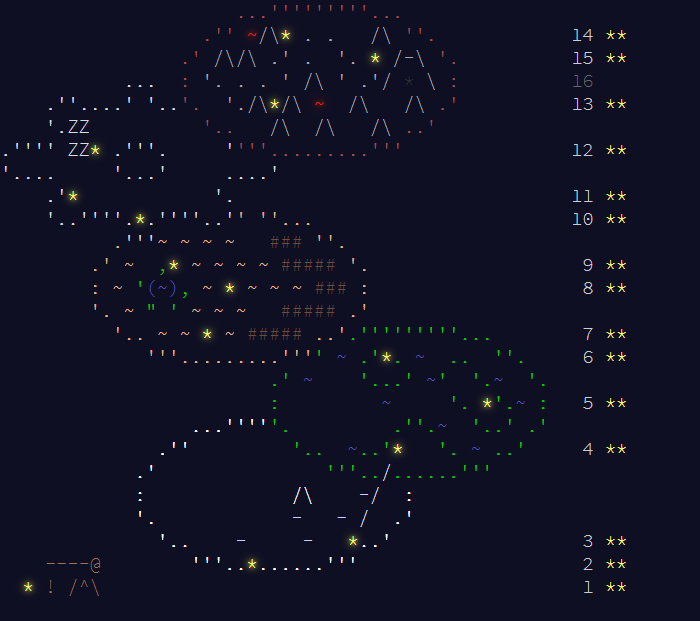
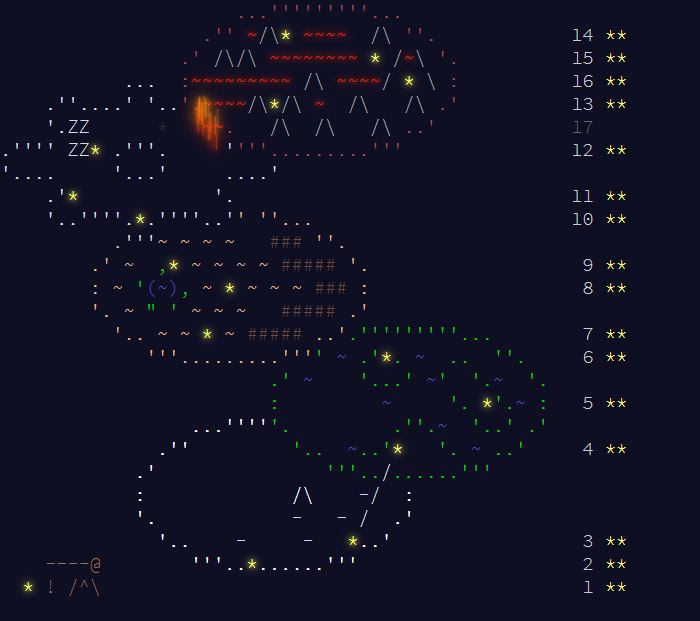
Day 16

diff --git a/2023/main_page/aoc/index_16.html b/2023/main_page/aoc/index_16.html
@@ -1,0 +1,118 @@
+<!DOCTYPE html>
+<html lang="en-us">
+<head>
+<meta charset="utf-8"/>
+<title>Advent of Code 2023</title>
+<!--[if lt IE 9]><script src="html5.js"></script><![endif]-->
+<link href='SourceCodePro.css' rel='stylesheet' type='text/css'>
+<link rel="stylesheet" type="text/css" href="style.css"/>
+<link rel="stylesheet alternate" type="text/css" href="highcontrast.css?0" title="High Contrast"/>
+<link rel="shortcut icon" href="favicon.png"/>
+</head><body>
+<main>
+<style>
+.calendar .calendar-color-n { color:#9b715b; }
+.calendar .calendar-color-v { color:#df2308; text-shadow:0 0 5px #df2308, 0 0 10px #df2308; }
+.calendar .calendar-color-a { color:#a5a8af; }
+.calendar .calendar-color-w { color:#ffffff; }
+.calendar .calendar-color-k { color:#6b4d3b; }
+.calendar .calendar-color-m { color:#d4dde4; }
+.calendar .calendar-color-b { color:#5555bb; }
+.calendar .calendar-color-l { color:#ccccff; }
+.calendar .calendar-color-i { color:#a25151; }
+.calendar .calendar-color-s { color:#e3b585; }
+.calendar .calendar-color-y { color:#ffff66; text-shadow:0 0 5px #ffff66, 0 0 10px #ffff66; }
+.calendar .lavafall {
+  position: relative;
+}
+.calendar .lavafall > span {
+  position: absolute;
+  animation: anim-calendar-lavafall 3s linear infinite;
+  display: inline-block;
+  pointer-events: none;
+}
+@keyframes anim-calendar-lavafall {
+    0% { transform: translateY(0);   opacity:0.0; color:#faa718; text-shadow: 0 0 3px #faa718, 0 0 5px #faa718, 0 0 10px #faa718, 0 0 15px #faa718, 0 0 20px #faa718; }
+   20% {                             opacity:0.8; }
+   80% {                             opacity:0.8; }
+  100% { transform: translateY(3ch); opacity:0.0; color:#df2308; text-shadow: 0 0 3px #df2308, 0 0 5px #df2308, 0 0 10px #df2308, 0 0 15px #df2308, 0 0 20px #df2308; }
+}
+
+.calendar .calendar-color-g { color:#00cc00; }
+</style>
+<pre class="calendar"><a aria-label="Day 14, two stars" href="day_14.html" class="calendar-day14 calendar-verycomplete">                     <span class="calendar-color-i">...'''''''''...</span>                    
+                  <span class="calendar-color-i">.''</span> <span class="calendar-color-v">~</span><span class="calendar-color-a">/\</span><span class="calendar-color-y">*</span> <span class="calendar-color-v">~~~~</span>  <span class="calendar-color-a">/\</span> <span class="calendar-color-i">''.</span>            <span class="calendar-day">14</span> <span class="calendar-mark-complete">*</span><span class="calendar-mark-verycomplete">*</span></a>
+<a aria-label="Day 15, two stars" href="day_15.html" class="calendar-day15 calendar-verycomplete">                <span class="calendar-color-i">.'</span> <span class="calendar-color-a">/\/\</span> <span class="calendar-color-v">~~~~~~~~</span> <span class="calendar-color-y">*</span> <span class="calendar-color-a">/</span><span class="calendar-color-v">~</span><span class="calendar-color-a">\</span> <span class="calendar-color-i">'.</span>          <span class="calendar-day">15</span> <span class="calendar-mark-complete">*</span><span class="calendar-mark-verycomplete">*</span></a>
+<a aria-label="Day 16, two stars" href="day_16.html" class="calendar-day16 calendar-verycomplete">           <span class="calendar-color-m">...</span>  <span class="calendar-color-i">:</span><span class="calendar-color-v">~~~~~~~~~</span> <span class="calendar-color-a">/\</span> <span class="calendar-color-v">~~~~</span><span class="calendar-color-a">/</span> <span class="calendar-color-y">*</span> <span class="calendar-color-a">\</span> <span class="calendar-color-i">:</span>          <span class="calendar-day">16</span> <span class="calendar-mark-complete">*</span><span class="calendar-mark-verycomplete">*</span></a>
+<a aria-label="Day 13, two stars" href="day_13.html" class="calendar-day13 calendar-verycomplete">    <span class="calendar-color-m">.''....'</span> <span class="calendar-color-m">'..</span><span class="calendar-color-i">'.<span class="lavafall" style=""><span style="left:-5.0px;top:-5.0px;animation-delay:-1.11s">|</span><span style="left:10.2px;top:10.2px;animation-delay:-0.10s">|</span><span style="left:7.8px;top:7.8px;animation-delay:-0.97s">|</span><span style="left:-8.6px;top:-8.6px;animation-delay:-1.12s">|</span><span style="left:-4.1px;top:-4.1px;animation-delay:-1.95s">|</span><span style="left:-3.7px;top:-3.7px;animation-delay:-0.13s">|</span><span style="left:5.8px;top:5.8px;animation-delay:-2.53s">|</span><span style="left:2.0px;top:2.0px;animation-delay:-2.61s">|</span><span style="left:3.2px;top:3.2px;animation-delay:-1.06s">|</span><span style="left:1.3px;top:1.3px;animation-delay:-0.11s">|</span><span style="left:9.2px;top:9.2px;animation-delay:-2.13s">|</span><span style="left:-1.5px;top:-1.5px;animation-delay:-0.24s">|</span><span style="left:-1.4px;top:-1.4px;animation-delay:-0.06s">|</span><span style="left:-8.2px;top:-8.2px;animation-delay:-0.75s">|</span><span style="left:1.1px;top:1.1px;animation-delay:-1.97s">|</span><span style="left:-7.6px;top:-7.6px;animation-delay:-0.62s">|</span><span style="left:-5.8px;top:-5.8px;animation-delay:-0.85s">|</span><span style="left:-9.1px;top:-9.1px;animation-delay:-2.10s">|</span><span style="left:2.6px;top:2.6px;animation-delay:-1.83s">|</span><span style="left:-9.0px;top:-9.0px;animation-delay:-1.47s">|</span></span></span><span class="calendar-color-v">~~~~</span><span class="calendar-color-a">/\</span><span class="calendar-color-y">*</span><span class="calendar-color-a">/\</span> <span class="calendar-color-v">~</span>  <span class="calendar-color-a">/\</span>   <span class="calendar-color-a">/\</span> <span class="calendar-color-i">.'</span>          <span class="calendar-day">13</span> <span class="calendar-mark-complete">*</span><span class="calendar-mark-verycomplete">*</span></a>
+<span aria-hidden="true" class="calendar-day17">    <span class="calendar-color-m">'.ZZ</span>      *   <span class="calendar-color-v">~~</span><span class="calendar-color-i">.</span>   <span class="calendar-color-a">/\</span>  <span class="calendar-color-a">/\</span>   <span class="calendar-color-a">/\</span> <span class="calendar-color-i">..'</span>            <span class="calendar-day">17</span><span id="calendar-countdown"></span><script>
+(function(){
+var countdown = document.getElementById("calendar-countdown");
+if (!countdown) return;
+var server_eta = 85728;
+var key = "2023-17-"+server_eta;
+var now = Math.floor(new Date().getTime()/1000);
+var target = server_eta + now;
+if (sessionStorage) {
+  // if you navigate away and hit the back button, this makes sure the countdown doesn't start from the wrong time
+  var prev_target = sessionStorage.getItem("calendar-target");
+  try { prev_target = JSON.parse(prev_target); } catch(e){}
+  if (prev_target && typeof prev_target === 'object' && prev_target.key === key) {
+    target = prev_target.target;
+  } else {
+    sessionStorage.setItem("calendar-target", JSON.stringify({key:key, target:target+1}));
+  }
+}
+
+var interval = null;
+function update_countdown() {
+  var remaining = Math.ceil(target - new Date().getTime()/1000);
+  if (remaining <= 0) {
+    clearInterval(interval);
+    interval = null;
+    countdown.textContent = "";
+
+    var a = document.createElement("a");
+    a[String.fromCharCode(104,114,101,102)] = "/2023" + String.fromCharCode(47,100,97,121,47) + "17";
+    a.className = "calendar-day17 calendar-day-new";
+    var span = countdown.parentNode;
+    while (span.firstChild) {
+      a.appendChild(span.firstChild);
+    }
+    a.appendChild(document.createTextNode("   "));
+    span.parentNode.insertBefore(a, span);
+    span.parentNode.removeChild(span);
+    countdown.parentNode.removeChild(countdown);
+  } else {
+    var hours = Math.floor(remaining/60/60);
+    remaining -= hours * 60 * 60;
+    var minutes = Math.floor(remaining/60);
+    remaining -= minutes * 60;
+    var seconds = remaining;
+    countdown.textContent = (hours < 10 ? "0" : "") + hours + ":" + (minutes < 10 ? "0" : "") + minutes + ":" + (seconds < 10 ? "0" : "") + seconds;
+  }
+}
+})();
+</script></span>
+<a aria-label="Day 12, two stars" href="day_12.html" class="calendar-day12 calendar-verycomplete"><span class="calendar-color-m">.''''</span> <span class="calendar-color-m">ZZ</span><span class="calendar-color-y">*</span> <span class="calendar-color-m">.'''.</span>     <span class="calendar-color-m">'</span><span class="calendar-color-i">'''.........'''</span>               <span class="calendar-day">12</span> <span class="calendar-mark-complete">*</span><span class="calendar-mark-verycomplete">*</span></a>
+<span aria-hidden="true" class=""><span class="calendar-color-m">'....</span>     <span class="calendar-color-m">'...'</span>     <span class="calendar-color-m">....'</span>                        </span>
+<a aria-label="Day 11, two stars" href="day_11.html" class="calendar-day11 calendar-verycomplete">    <span class="calendar-color-m">.'</span><span class="calendar-color-y">*</span>            <span class="calendar-color-m">'.</span>                              <span class="calendar-day">11</span> <span class="calendar-mark-complete">*</span><span class="calendar-mark-verycomplete">*</span></a>
+<a aria-label="Day 10, two stars" href="day_10.html" class="calendar-day10 calendar-verycomplete">    <span class="calendar-color-m">'..''''.</span><span class="calendar-color-y">*</span><span class="calendar-color-m">.''''..'</span><span class="calendar-color-s">'</span> <span class="calendar-color-s">''...</span>                       <span class="calendar-day">10</span> <span class="calendar-mark-complete">*</span><span class="calendar-mark-verycomplete">*</span></a>
+<span aria-hidden="true" class="">          <span class="calendar-color-s">.</span><span class="calendar-color-m">'''</span><span class="calendar-color-s">~</span> <span class="calendar-color-s">~</span> <span class="calendar-color-s">~</span> <span class="calendar-color-s">~</span>   <span class="calendar-color-k">###</span> <span class="calendar-color-s">''.</span>                  </span>
+<a aria-label="Day 9, two stars" href="day_09.html" class="calendar-day9 calendar-verycomplete">        <span class="calendar-color-s">.'</span> <span class="calendar-color-s">~</span>  <span class="calendar-color-g">,</span><span class="calendar-color-y">*</span> <span class="calendar-color-s">~</span> <span class="calendar-color-s">~</span> <span class="calendar-color-s">~</span> <span class="calendar-color-s">~</span> <span class="calendar-color-k">#####</span> <span class="calendar-color-s">'.</span>                  <span class="calendar-day"> 9</span> <span class="calendar-mark-complete">*</span><span class="calendar-mark-verycomplete">*</span></a>
+<a aria-label="Day 8, two stars" href="day_08.html" class="calendar-day8 calendar-verycomplete">        <span class="calendar-color-s">:</span> <span class="calendar-color-s">~</span> <span class="calendar-color-g">'</span><span class="calendar-color-b">(~)</span><span class="calendar-color-g">,</span> <span class="calendar-color-s">~</span> <span class="calendar-color-y">*</span> <span class="calendar-color-s">~</span> <span class="calendar-color-s">~</span> <span class="calendar-color-s">~</span> <span class="calendar-color-k">###</span> <span class="calendar-color-s">:</span>                  <span class="calendar-day"> 8</span> <span class="calendar-mark-complete">*</span><span class="calendar-mark-verycomplete">*</span></a>
+<span aria-hidden="true" class="">        <span class="calendar-color-s">'.</span> <span class="calendar-color-s">~</span> <span class="calendar-color-g">&quot;</span> <span class="calendar-color-g">'</span> <span class="calendar-color-s">~</span> <span class="calendar-color-s">~</span> <span class="calendar-color-s">~</span>   <span class="calendar-color-k">#####</span> <span class="calendar-color-s">.'</span>                </span>
+<a aria-label="Day 7, two stars" href="day_07.html" class="calendar-day7 calendar-verycomplete">          <span class="calendar-color-s">'..</span> <span class="calendar-color-s">~</span> <span class="calendar-color-s">~</span> <span class="calendar-color-y">*</span> <span class="calendar-color-s">~</span> <span class="calendar-color-k">#####</span> <span class="calendar-color-s">..'</span><span class="calendar-color-g">.'''''''''...</span>       <span class="calendar-day"> 7</span> <span class="calendar-mark-complete">*</span><span class="calendar-mark-verycomplete">*</span></a>
+<a aria-label="Day 6, two stars" href="day_06.html" class="calendar-day6 calendar-verycomplete">             <span class="calendar-color-s">'''.........'''</span><span class="calendar-color-g">'</span> <span class="calendar-color-b">~</span> <span class="calendar-color-g">.'</span><span class="calendar-color-y">*</span><span class="calendar-color-g">.</span> <span class="calendar-color-b">~</span>  <span class="calendar-color-g">..</span>  <span class="calendar-color-g">''.</span>    <span class="calendar-day"> 6</span> <span class="calendar-mark-complete">*</span><span class="calendar-mark-verycomplete">*</span></a>
+<span aria-hidden="true" class="">                        <span class="calendar-color-g">.'</span> <span class="calendar-color-b">~</span>    <span class="calendar-color-g">'...'</span> <span class="calendar-color-b">~</span><span class="calendar-color-g">'</span>  <span class="calendar-color-g">'.</span><span class="calendar-color-b">~</span>  <span class="calendar-color-g">'.</span></span>
+<a aria-label="Day 5, two stars" href="day_05.html" class="calendar-day5 calendar-verycomplete">                        <span class="calendar-color-g">:</span>         <span class="calendar-color-b">~</span>     <span class="calendar-color-g">'.</span> <span class="calendar-color-y">*</span><span class="calendar-color-g">'.</span><span class="calendar-color-b">~</span> <span class="calendar-color-g">:</span>  <span class="calendar-day"> 5</span> <span class="calendar-mark-complete">*</span><span class="calendar-mark-verycomplete">*</span></a>
+<span aria-hidden="true" class="">                 <span class="calendar-color-w">...''''</span><span class="calendar-color-g">'.</span>         <span class="calendar-color-g">.''.</span><span class="calendar-color-b">~</span>  <span class="calendar-color-g">'..'</span> <span class="calendar-color-g">.'</span></span>
+<a aria-label="Day 4, two stars" href="day_04.html" class="calendar-day4 calendar-verycomplete">              <span class="calendar-color-w">.''</span>         <span class="calendar-color-g">'..</span>  <span class="calendar-color-b">~</span><span class="calendar-color-g">..'</span><span class="calendar-color-y">*</span>   <span class="calendar-color-g">'.</span> <span class="calendar-color-b">~</span> <span class="calendar-color-g">..'</span>    <span class="calendar-day"> 4</span> <span class="calendar-mark-complete">*</span><span class="calendar-mark-verycomplete">*</span></a>
+<span aria-hidden="true" class="">            <span class="calendar-color-w">.'</span>               <span class="calendar-color-g">'''..</span><span class="calendar-color-m">/</span><span class="calendar-color-g">......'''</span>     </span>
+<span aria-hidden="true" class="">            <span class="calendar-color-w">:</span>             <span class="calendar-color-w">/\</span>    <span class="calendar-color-l">-</span><span class="calendar-color-m">/</span>  <span class="calendar-color-w">:</span>            </span>
+<span aria-hidden="true" class="">            <span class="calendar-color-w">'.</span>            <span class="calendar-color-l">-</span>   <span class="calendar-color-l">-</span> <span class="calendar-color-m">/</span>  <span class="calendar-color-w">.'</span>            </span>
+<a aria-label="Day 3, two stars" href="day_03.html" class="calendar-day3 calendar-verycomplete">              <span class="calendar-color-w">'..</span>    <span class="calendar-color-l">-</span>     <span class="calendar-color-l">-</span>   <span class="calendar-color-y">*</span><span class="calendar-color-w">..'</span>                <span class="calendar-day"> 3</span> <span class="calendar-mark-complete">*</span><span class="calendar-mark-verycomplete">*</span></a>
+<a aria-label="Day 2, two stars" href="day_02.html" class="calendar-day2 calendar-verycomplete">    <span class="calendar-color-n">----@</span>        <span class="calendar-color-w">'''..</span><span class="calendar-color-y">*</span><span class="calendar-color-w">......'''</span>                   <span class="calendar-day"> 2</span> <span class="calendar-mark-complete">*</span><span class="calendar-mark-verycomplete">*</span></a>
+<a aria-label="Day 1, two stars" href="day_01.html" class="calendar-day1 calendar-verycomplete">  <span class="calendar-color-y">*</span> <span class="calendar-color-n">!</span> <span class="calendar-color-n">/^\</span>                                          <span class="calendar-day"> 1</span> <span class="calendar-mark-complete">*</span><span class="calendar-mark-verycomplete">*</span></a>
+</pre>
+</main></body></html>
